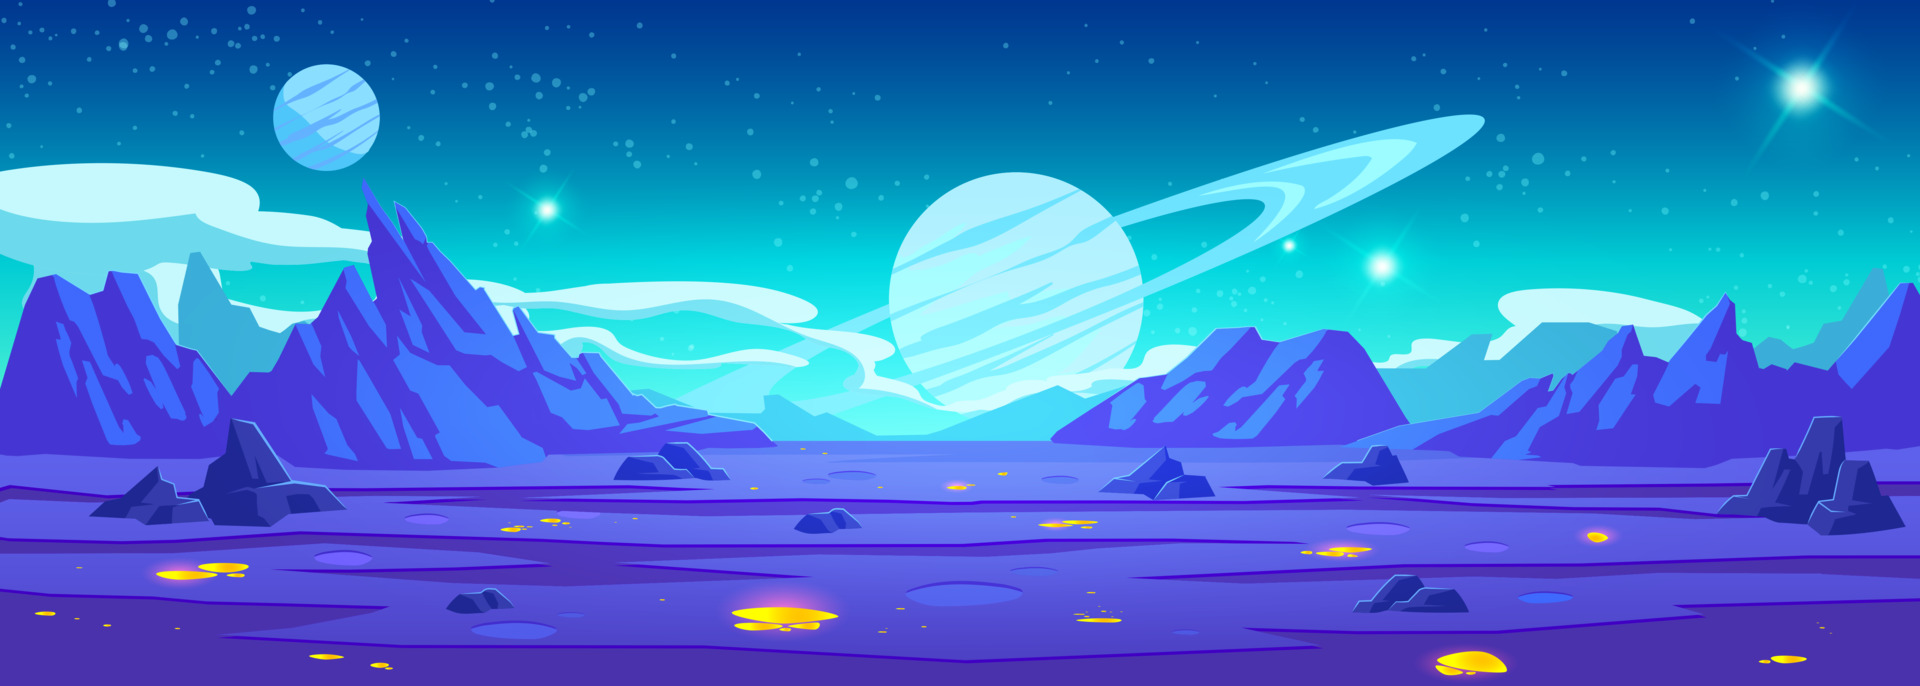
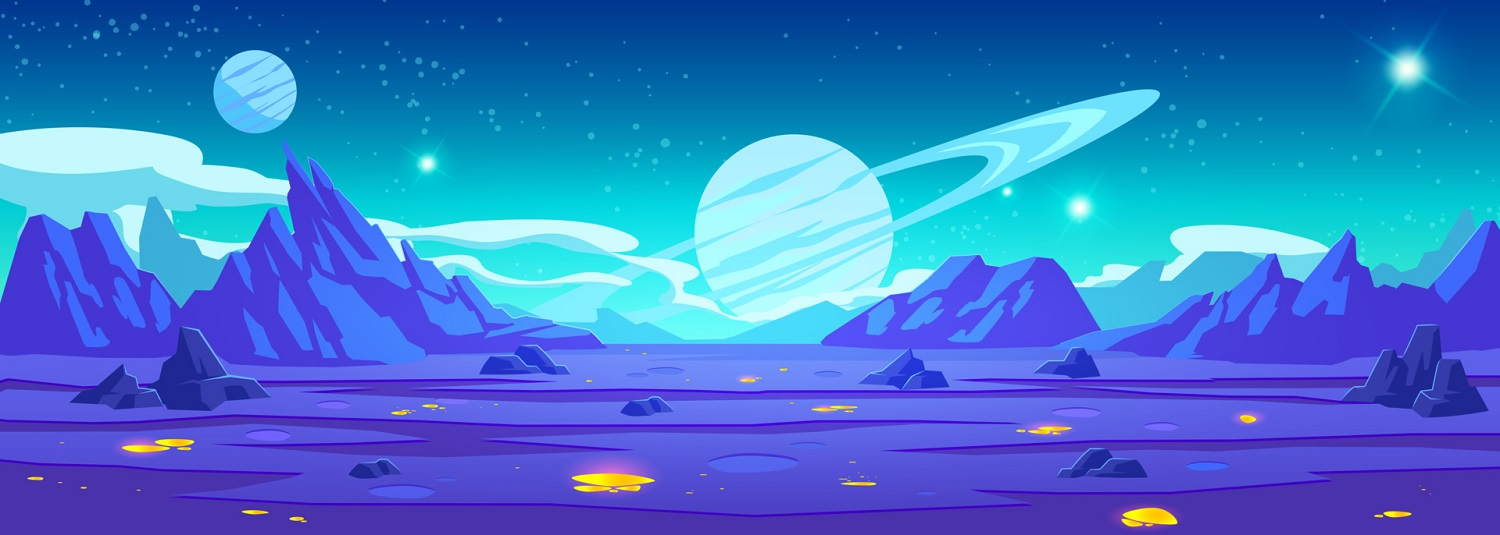
Cambios en el game

diff --git a/Game.py b/Game.py
@@ -14,6 +14,18 @@ correct_answers_session = 0
 logro_mostrar_tiempo = 0
 logro_mostrado = {5: False, 10: False, 15: False, 30: False}
 
+escenarios = [
+    "img/game_fondo_1.jpg",
+    "img/game_fondo_2.jpg",
+    "img/game_fondo_3.jpg",
+]
+
+def cargar_fondo(nivel, screen_width, screen_height):
+    escenario_index = (nivel // 5) % len(escenarios)
+    fondo = pygame.image.load(escenarios[escenario_index])
+    fondo = pygame.transform.scale(fondo, (screen_width, screen_height))
+    return fondo
+
 def guardar_progreso(id_estudiantes, nivel, puntos):
     conexion = conectar_db()
     if conexion:
@@ -83,7 +95,7 @@ def mostrar_logro(screen, correct_answers_session):
         logro_mostrado[correct_answers_session] = True
         pygame.display.flip()
         pygame.time.delay(mostrar_duracion * 1000)
-
+        
 def pantalla_inicio(screen, screen_width, screen_height):
     start_screen_image = pygame.image.load("img/game_start.jpg")
     start_screen_image = pygame.transform.scale(start_screen_image, (screen_width, screen_height))
@@ -95,7 +107,7 @@ def pantalla_inicio(screen, screen_width, screen_height):
     text = font_start.render("START", True, (0, 0, 0))
     screen.blit(text, (screen_width // 2 - text.get_width() // 2, screen_height // 2.7 - text.get_height() // 2))
 
-    start_text = font_text.render("Preguntas Basicas", True, (0, 0, 0))
+    start_text = font_text.render("Clases 5° a 7°", True, (0, 0, 0))
     screen.blit(start_text, (screen_width // 2 - start_text.get_width() // 2, screen_height - 230))
 
     pygame.display.flip()
@@ -124,7 +136,7 @@ def jump_pj(character_y, is_jumping, jump_count):
             is_jumping = False
     return character_y, is_jumping, jump_count
 
-def mostrar_pregunta(screen, questions, correct_sound, incorrect_sound, id_estudiante):
+def mostrar_pregunta(screen, questions, correct_sound, incorrect_sound, id_estudiante, screen_width, screen_height):
     global score, nivel, correct_answers_session
     pregunta_actual = choice(questions)
     question_text = pregunta_actual["pregunta"]
@@ -133,7 +145,7 @@ def mostrar_pregunta(screen, questions, correct_sound, incorrect_sound, id_estud
     attempts = 2
     answer = None
 
-    imagen_fondo = pygame.image.load("img/game_fondo_1.jpg")
+    imagen_fondo = cargar_fondo(nivel, screen_width, screen_height)
     overlay = pygame.Surface(screen.get_size(), pygame.SRCALPHA)
     overlay.fill((255, 255, 255, 80))
 
@@ -157,10 +169,10 @@ def mostrar_pregunta(screen, questions, correct_sound, incorrect_sound, id_estud
         lines.append(current_line)
         return lines
     
-    max_width = screen.get_width() - 200
+    max_width = screen.get_width() - 130
     wrapped_question = wrap_text(question_text, font, max_width)
 
-    question_y_pos = 200
+    question_y_pos = 130
     question_surfaces = [font.render(line, True, (0, 0, 0)) for line in wrapped_question]
 
     options_start_y = question_y_pos + len(question_surfaces) * 40 + 20
@@ -172,11 +184,15 @@ def mostrar_pregunta(screen, questions, correct_sound, incorrect_sound, id_estud
         screen.blit(imagen_fondo, (0, 0))
         screen.blit(overlay, (0, 0))
 
-        for idx, question_surface in enumerate(question_surfaces):
-            screen.blit(question_surface, (100, question_y_pos + idx * 40))
+        y_offset = question_y_pos
+        for line_surface in question_surfaces:
+            screen.blit(line_surface, (100, y_offset))
+            y_offset += 40
 
-        for idx, opt_surface in enumerate(option_surfaces):
-            screen.blit(opt_surface, (100, options_start_y  + idx * 40))
+        y_offset = options_start_y
+        for option_surface in option_surfaces:
+            screen.blit(option_surface, (100, y_offset))
+            y_offset += 40
 
         pygame.display.flip()
 
@@ -208,7 +224,6 @@ def mostrar_pregunta(screen, questions, correct_sound, incorrect_sound, id_estud
                 answer = None
 
     return False
-
 
 def mostrar_puntuacion(screen, score, nivel):
     font_score = pygame.font.Font("font/Eight-Bit Madness.ttf", 50)
@@ -285,7 +300,7 @@ enemigo_timer = 0
 def iniciar_juego(id_estudiante):
     global score, is_jumping, jump_count, nivel, correct_answers_session
     pygame.init()
-    screen_width, screen_height = 800, 600
+    screen_width, screen_height = 1100, 500
     screen = pygame.display.set_mode((screen_width, screen_height))
     pygame.display.set_caption("GAME")
     clock = pygame.time.Clock()
@@ -293,11 +308,11 @@ def iniciar_juego(id_estudiante):
     nivel, score = cargar_progreso(id_estudiante)
     juego_activo = True
     correct_answers_session = 0
-    logro_start_time = 0
     enemigo_timer = 0
 
     pantalla_inicio(screen, screen_width, screen_height)
-    imagen_fondo = pygame.image.load("img/game_fondo_1.jpg")
+
+    fondo = cargar_fondo(nivel, screen_width, screen_height)
 
     character_images = [pygame.image.load(f"img/run_{i}.png") for i in range(1, 7)]
     character_index = 0
@@ -314,7 +329,9 @@ def iniciar_juego(id_estudiante):
     running = True
     distance = 0
     while running:
-        screen.blit(imagen_fondo, (0, 0))
+        screen.blit(fondo, (0, 0))
+
+        fondo = cargar_fondo(nivel, screen_width, screen_height)
         
         for event in pygame.event.get():
             if event.type == pygame.QUIT:
@@ -345,7 +362,7 @@ def iniciar_juego(id_estudiante):
 
         distance += 1
         if distance % 200 == 0:
-            if not mostrar_pregunta(screen, questions, respuesta_correcta_sound, respuesta_incorrecta_sound, id_estudiante):
+            if not mostrar_pregunta(screen, questions, respuesta_correcta_sound, respuesta_incorrecta_sound, id_estudiante, screen_width, screen_height):
                 game_over(screen, screen_width, screen_height, id_estudiante)
                 running = False
             distance += 200
